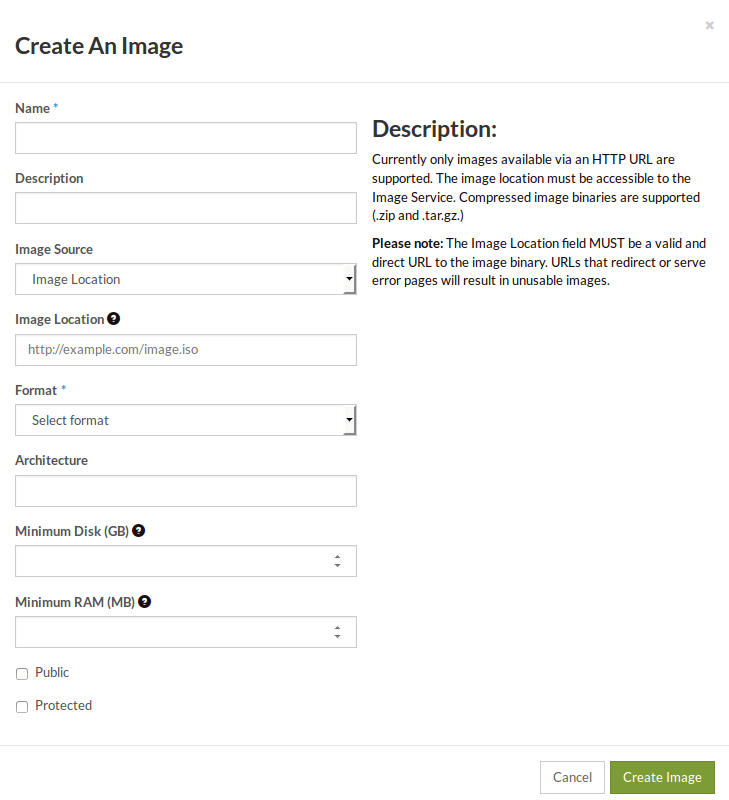
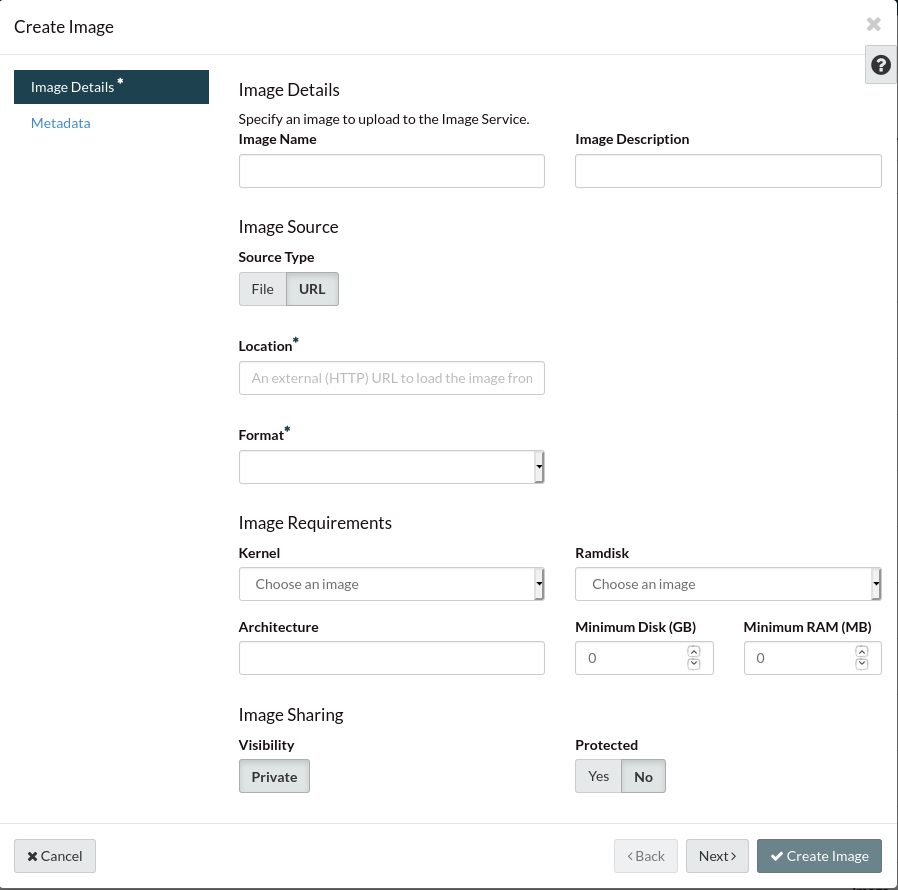
updated old photo and reworded some things for image section

diff --git a/source/images/launching-from-custom-image.rst b/source/images/launching-from-custom-image.rst
@@ -2,11 +2,13 @@
 Launching an instance from a custom image
 #########################################
 
-On the dashboard you will find the image you uploaded on “Images & Snapshots”
-under your private images. Click on the Launch button and when you reach the
-source section, select “Boot from image (creates a new volume).” As the
-instance boot source. Also ensure the volume size is at least the same size as
-the image uploaded:
+On the dashboard you will find the image you uploaded under the *Images*
+section of the dashboard. You can either click on the *Launch* button next to
+your Image, or go to the Instances section and create a new instance.
+Regardless of the method you use, you will reach the "Source" section when
+creating your new instance. Select “Boot from image (creates a new volume).”
+as the instance boot source. Also ensure the volume size is at least the same
+size as the image uploaded:
 
 .. image:: _static/launching-image-boot-cut.png
 

diff --git a/source/images/uploading-image.rst b/source/images/uploading-image.rst
@@ -16,8 +16,8 @@ Via the command line tools
   placed on the dashboard.
 
 Ensure that you have the OpenStack command line tools
-installed and that you have sourced an openrc file, as explained on
-:ref:`command-line-interface`.
+installed and that you have sourced an openrc file, as explained in the
+:ref:`CLI tools and SDKs section<command-line-interface>`.
 
 To upload the converted image to the Catalyst Cloud:
 
@@ -58,9 +58,9 @@ displayed as shown below:
 
 .. image:: _static/image-create.png
 
-1) On the image source, select "Image Location" to provide the URL that the
-image should be downloaded from, or select "Image File" to upload an image from
-your file system.
+1) On the image source, select "Location" to provide the URL that the
+image should be downloaded from, or select source type "File" to upload an
+image from your file system.
 
 2) Select the appropriate format for your image. We strongly recommend the use
 of RAW images.
